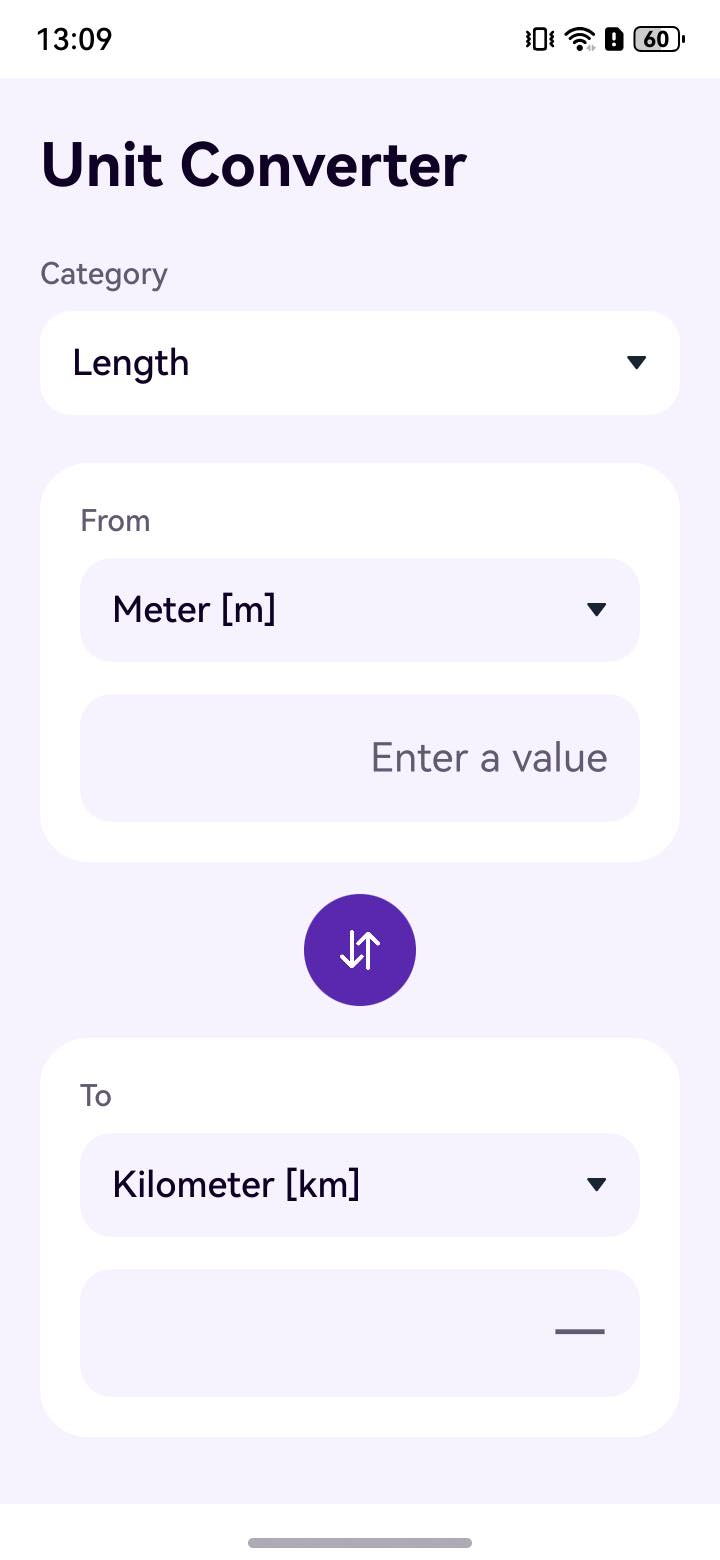
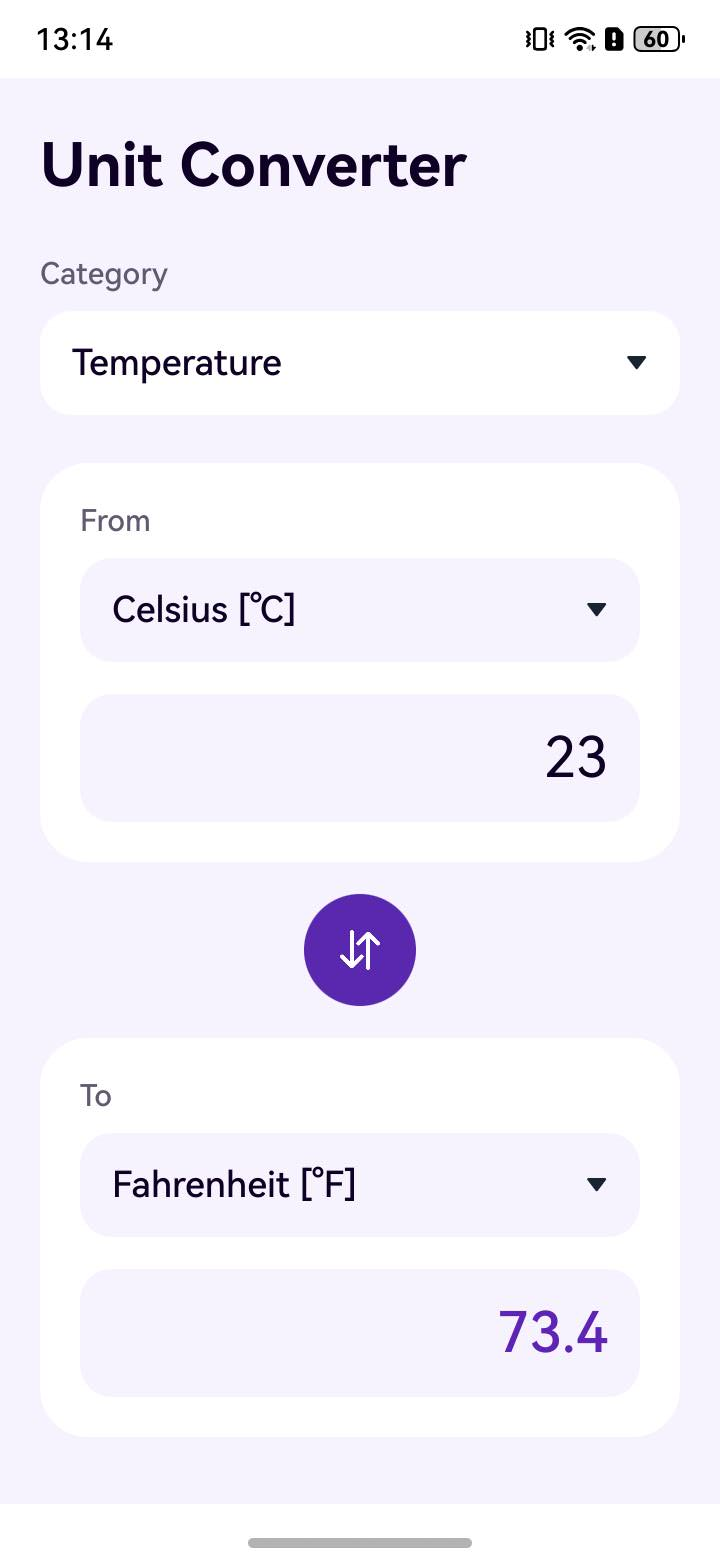
Show live conversion in README preview

diff --git a/README.md b/README.md
@@ -15,7 +15,7 @@ Supported units: length (meter, kilometer, mile, foot, inch); weight (gram, kilo
 
 ## Preview
 
-![Unit Converter on an OpenHarmony phone, showing the category selector, conversion cards, and swap button](app_preview.jpg)
+![Unit Converter on an OpenHarmony phone, converting 23 degrees Celsius to 73.4 degrees Fahrenheit](app_preview.jpg)
 
 ## Requirements
 
